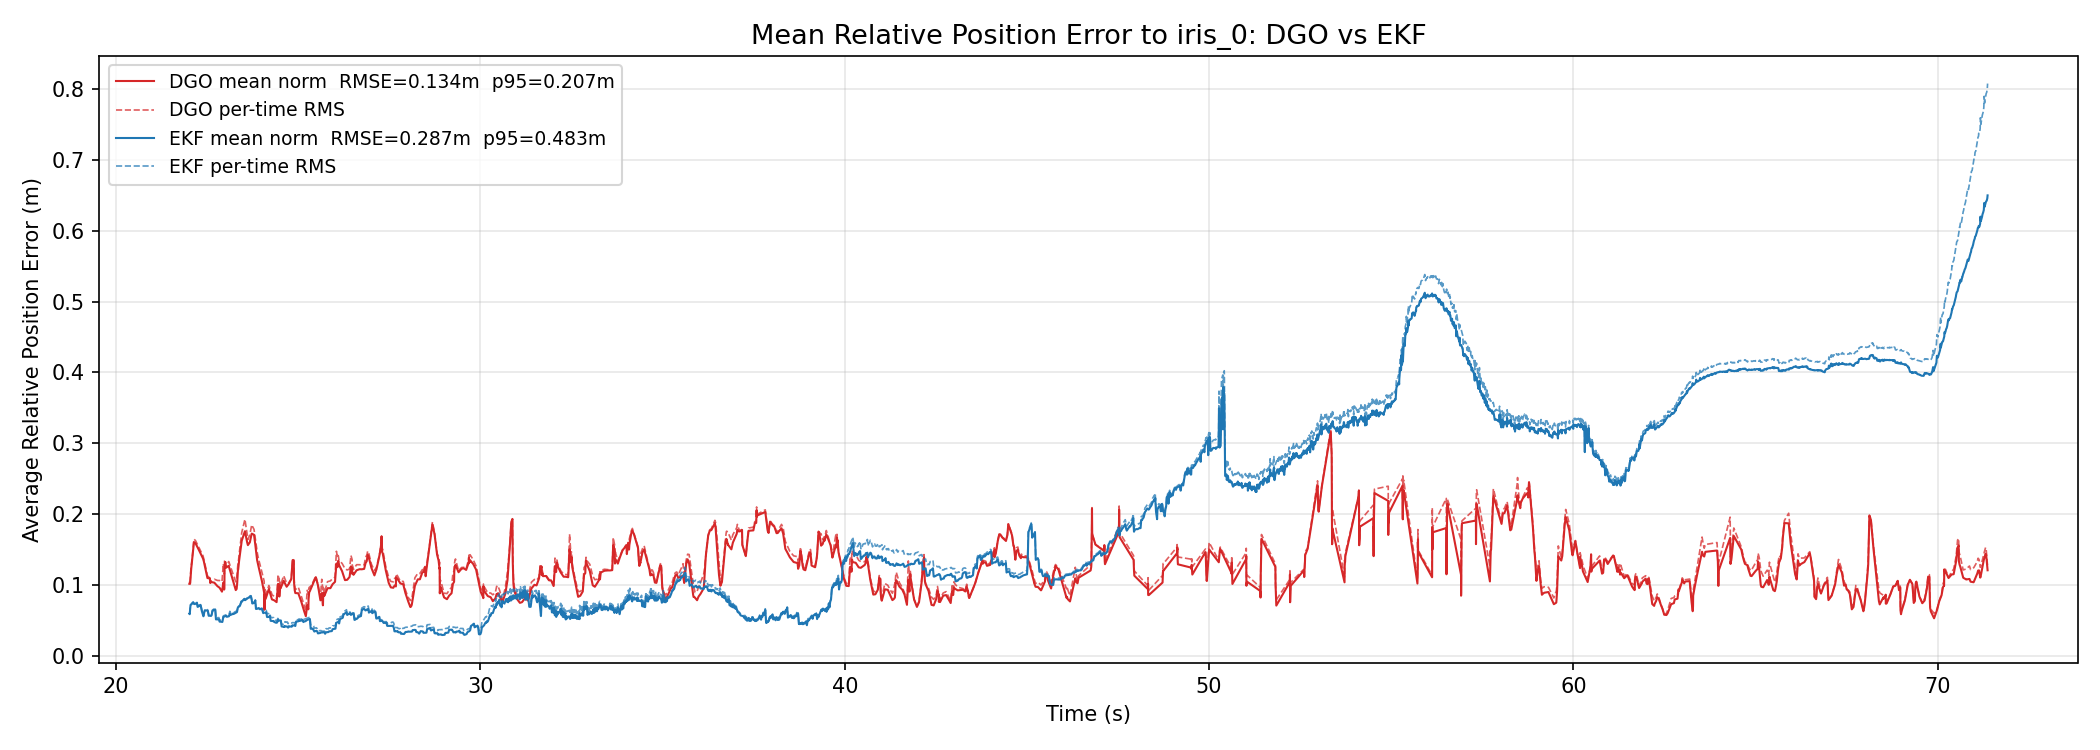
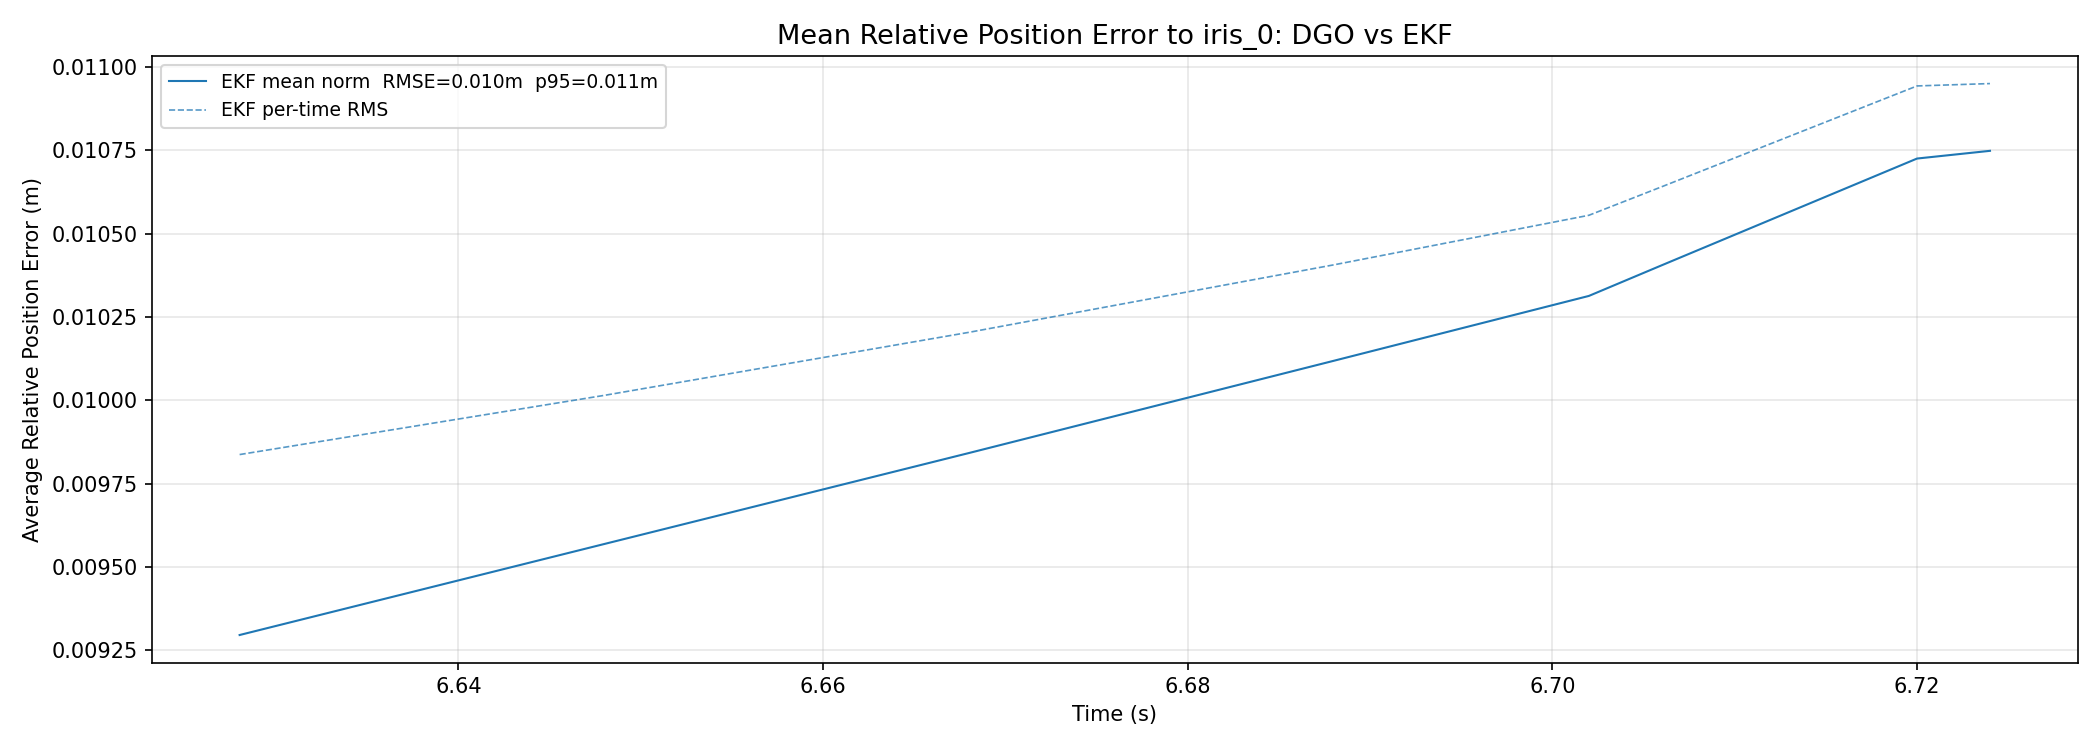
run_19~21对应的代码

diff --git a/src/test/scripts/dgo_ekf_plot.py b/src/test/scripts/dgo_ekf_plot.py
@@ -157,15 +157,17 @@ def stats(values):
     }
 
 
-def print_summary(name, mean_data):
+def print_summary(name, mean_data, label=None):
     if mean_data is None:
         print(f"{name}: no valid data")
         return
 
     mean_stats = stats(mean_data["mean"])
     rms_stats = stats(mean_data["rms"])
-    print(f"\n{name} mean relative error summary")
-    print(f"  drones: {', '.join(mean_data['drones'])}")
+    tag = f" [{label}]" if label else ""
+    print(f"\n{name} relative error summary{tag}")
+    if "drones" in mean_data:
+        print(f"  runs: {', '.join(str(d) for d in mean_data['drones'])}")
     print(f"  time: {mean_data['time'][0]:.3f}s -> {mean_data['time'][-1]:.3f}s")
     print(f"  mean(norm): mean={mean_stats['mean']:.4f}m "
           f"rmse={mean_stats['rmse']:.4f}m p95={mean_stats['p95']:.4f}m "
@@ -189,6 +191,57 @@ def print_comparison(dgo_mean, ekf_mean):
     print(f"  EKF mean-relative RMSE: {ekf_rmse:.4f}m")
     print(f"  ratio DGO/EKF:          {ratio:.3f}")
     print(f"  result:                  {result} (required ratio < 1.0)")
+
+
+def plot_multi_run_error(dgo_var, ekf_var, out_dir, show, run_ids):
+    """Multi-run overlay: thin per-run lines + bold avg ± 1σ shaded band."""
+    fig, ax = plt.subplots(1, 1, figsize=(14, 5.5))
+    runs_str = f"run_{run_ids[0]}–run_{run_ids[-1]}"
+    ax.set_title(f"Mean Relative Position Error to iris_0 — {runs_str}",
+                 fontsize=13)
+
+    colors = {"dgo": "#d62728", "ekf": "#1f77b4"}
+    labels = {"dgo": "DGO", "ekf": "EKF"}
+
+    for method, var, color, label in [
+        ("dgo", dgo_var, colors["dgo"], labels["dgo"]),
+        ("ekf", ekf_var, colors["ekf"], labels["ekf"]),
+    ]:
+        if var is None:
+            continue
+
+        # Per-run thin lines
+        for i, (rid, curve) in enumerate(var["individual"]):
+            alpha = 0.25 + 0.15 * (i / max(len(var["individual"]) - 1, 1))
+            ax.plot(var["time"], curve, color=color,
+                    linewidth=0.6, alpha=alpha, zorder=1,
+                    label=f"{label} run_{rid}" if i == 0 else None)
+
+        # ±1σ shaded band
+        ax.fill_between(var["time"],
+                         var["mean"] - var["std"],
+                         var["mean"] + var["std"],
+                         color=color, alpha=0.12, zorder=2,
+                         label=f"{label} ±1σ" if method == "dgo" else None)
+
+        # Average bold line
+        rmse = np.sqrt(np.mean(var["mean"] ** 2))
+        ax.plot(var["time"], var["mean"], color=color,
+                linewidth=2.0, zorder=3,
+                label=f"{label} avg (RMSE={rmse:.3f}m, N={var['n_runs']} runs)")
+
+    ax.set_xlabel("Elapsed Time (s)")
+    ax.set_ylabel("Average Relative Position Error (m)")
+    ax.grid(True, alpha=0.3)
+    ax.legend(fontsize=8, ncol=2)
+
+    os.makedirs(out_dir, exist_ok=True)
+    path = os.path.join(out_dir, "mean_relative_error_dgo_vs_ekf.png")
+    fig.tight_layout()
+    fig.savefig(path, dpi=150)
+    print(f"\nSaved {path}")
+    if not show:
+        plt.close(fig)
 
 
 def plot_mean_error(dgo_mean, ekf_mean, out_dir, show):
@@ -247,12 +300,61 @@ def load_run(run_id):
     return dgo_mean, ekf_mean
 
 
+def build_aggregate_variation(run_results, method):
+    """Return per-run aligned series + mean ± 1σ for multi-run plotting."""
+    series = []
+    for run_id, result in run_results:
+        mean_data = result[0] if method == "dgo" else result[1]
+        if mean_data is None or len(mean_data["time"]) < 2:
+            continue
+        duration = mean_data["time"][-1] - mean_data["time"][0]
+        if duration < 1.0 or len(mean_data["mean"]) < 10:
+            print(f"  Skip {method.upper()} run_{run_id}: "
+                  f"too short ({duration:.2f}s, {len(mean_data['mean'])} samples)")
+            continue
+        elapsed = mean_data["time"] - mean_data["time"][0]
+        series.append((run_id, elapsed, mean_data["mean"]))
+
+    if not series:
+        return None
+
+    end_time = min(item[1][-1] for item in series)
+    if end_time <= 0.0:
+        return None
+
+    time_axis = np.unique(np.concatenate([
+        elapsed[elapsed <= end_time] for _, elapsed, _ in series
+    ]))
+    if len(time_axis) < 2:
+        return None
+
+    values = np.vstack([
+        np.interp(time_axis, elapsed, means)
+        for _, elapsed, means in series
+    ])
+    return {
+        "time": time_axis,
+        "mean": values.mean(axis=0),
+        "std": values.std(axis=0),
+        "individual": [
+            (run_id, np.interp(time_axis, elapsed, means))
+            for run_id, elapsed, means in series
+        ],
+        "n_runs": len(series),
+    }
+
+
 def aggregate_runs(run_results, method):
     """Average several runs on a common elapsed-time axis."""
     series = []
     for run_id, result in run_results:
         mean_data = result[0] if method == "dgo" else result[1]
         if mean_data is None or len(mean_data["time"]) < 2:
+            continue
+        duration = mean_data["time"][-1] - mean_data["time"][0]
+        if duration < 1.0 or len(mean_data["mean"]) < 10:
+            print(f"  Skip {method.upper()} run_{run_id} in aggregate: "
+                  f"too short ({duration:.2f}s, {len(mean_data['mean'])} samples)")
             continue
         elapsed = mean_data["time"] - mean_data["time"][0]
         series.append((run_id, elapsed, mean_data["mean"], mean_data["rms"]))
@@ -318,26 +420,54 @@ def main():
 
     if args.start_id is not None:
         run_results = []
+        range_run_ids = []
         for run_id in range(args.start_id, args.end_id + 1):
             run_dir = os.path.join(RUN_LOG_BASE, f"run_{run_id}")
             if not os.path.isdir(run_dir):
                 print(f"\nSkip missing run directory: {run_dir}")
                 continue
+            range_run_ids.append(run_id)
             run_results.append((run_id, load_run(run_id)))
 
-        dgo_mean = aggregate_runs(run_results, "dgo")
-        ekf_mean = aggregate_runs(run_results, "ekf")
-        if dgo_mean is None and ekf_mean is None:
+        if not run_results:
             print("No valid runs loaded. Exiting.")
             return
 
-        print_summary("DGO multi-run average", dgo_mean)
-        print_summary("EKF multi-run average", ekf_mean)
+        # 1) Multi-run aggregate plot with variation bands
+        dgo_var = build_aggregate_variation(run_results, "dgo")
+        ekf_var = build_aggregate_variation(run_results, "ekf")
+        if dgo_var is None and ekf_var is None:
+            print("No alignable data for multi-run plot. Exiting.")
+            return
+
+        # Print individual run summaries
+        for rid, (dgo_m, ekf_m) in run_results:
+            print_summary("DGO", dgo_m, label=f"run_{rid}")
+            print_summary("EKF", ekf_m, label=f"run_{rid}")
+
+        # Print aggregated summary
+        dgo_mean = aggregate_runs(run_results, "dgo")
+        ekf_mean = aggregate_runs(run_results, "ekf")
+        print_summary("DGO", dgo_mean, label="aggregate")
+        print_summary("EKF", ekf_mean, label="aggregate")
         print_comparison(dgo_mean, ekf_mean)
+
         run_tag = f"runs_{args.start_id}_to_{args.end_id}"
         out_dir = os.path.abspath(args.out_dir) if args.out_dir else os.path.join(
             FIGURE_BASE, run_tag, "dgo_ekf_plot")
-        plot_mean_error(dgo_mean, ekf_mean, out_dir, show=not args.no_show)
+
+        # Multi-run variation plot
+        plot_multi_run_error(dgo_var, ekf_var, out_dir,
+                             show=not args.no_show, run_ids=range_run_ids)
+
+        # 2) Individual per-run plots (side effect)
+        for rid, _ in run_results:
+            dgo_m, ekf_m = load_run(rid)
+            if dgo_m is None and ekf_m is None:
+                continue
+            run_out = os.path.join(FIGURE_BASE, f"run_{rid}", "dgo_ekf_plot")
+            plot_mean_error(dgo_m, ekf_m, run_out, show=False)
+
         if not args.no_show:
             plt.show()
         return
